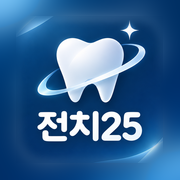
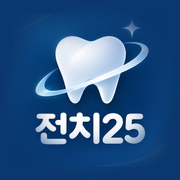
아이콘: 깔끔한 파란 배경 위에 줄여 얹어 이·글자가 잘리지 않게
- 받은 "전치25" 그림을 그 테두리와 같은 파란 원형 그라데이션 배경 위에 가장자리를 부드럽게 해 얹음(안쪽 네모 테두리가 비치지 않게)
- 안드로이드가 동그랗게 깎아도 이와 "전치25" 글자가 다 들어오게 (일반 84%, 안드로이드 둥근 아이콘 70%)
- 설치된 폰이 새로 받도록 ?v=3, 파일 크기도 줄임

Claude-Session: https://claude.ai/code/session_01JPaUmkgUKPJEQKHtWSj7xf

Changed region(s): [[0.1944, 0.6111, 1.0, 1.0], [0.0, 0.0, 0.8333, 0.5833], [0.4444, 0.4722, 0.5, 0.5556]]

diff --git a/index.html b/index.html
@@ -6,13 +6,13 @@
 <meta name="theme-color" content="#1d5d8a">
 <title>전치25</title>
 <link rel="manifest" href="/manifest.webmanifest">
-<link rel="apple-touch-icon" href="/icon-180.png?v=2">
+<link rel="apple-touch-icon" href="/icon-180.png?v=3">
 <meta name="apple-mobile-web-app-capable" content="yes">
 <meta name="mobile-web-app-capable" content="yes">
 <meta name="apple-mobile-web-app-title" content="전치25">
 <meta name="application-name" content="전치25">
 <meta name="apple-mobile-web-app-status-bar-style" content="default">
-<link rel="icon" type="image/png" href="/favicon-64.png?v=2">
+<link rel="icon" type="image/png" href="/favicon-64.png?v=3">
 <link rel="preconnect" href="https://fonts.googleapis.com">
 <link rel="preconnect" href="https://fonts.gstatic.com" crossorigin>
 <link rel="stylesheet" href="https://fonts.googleapis.com/css2?family=IBM+Plex+Sans+KR:wght@400;500;700&family=IBM+Plex+Mono:wght@500;600&display=swap">

diff --git a/CLAUDE.md b/CLAUDE.md
@@ -57,7 +57,7 @@
 - 명단에서 빠진 학생의 출결은 `attendance` 표에 남지만(다시 들어오면 쓴다) `_state`의 `att`에는 싣지 않는다.
 - 탭 순서: 탭을 0.5초 길게 누르면(그동안 `.pressing` 밑줄이 차오름) 집고(`.dragging`: 떠올라 그림자, 나머지는 흐림, transform으로 손가락을 따라옴), 다른 탭(원래 자리, `offsetLeft`라 `.tabs`가 `position:relative`) 위로 끌면 그 자리를 차지하며 비켜나는 탭은 FLIP으로 미끄러지고, 줄 가장자리 40px 안이면 저절로 스크롤한다. 놓으면 0.15초 내려앉은 뒤(`settling`) 역할마다 이 폰에만 기억한다(`localStorage` `jabong-taborder`, `tabsOf`가 `baseTabs`에 적용, 기억에 없는 새 탭은 맨 뒤). 맨 앞 탭이 처음 여는 탭이다. 그 전에 움직이면 보통 누름·스크롤이고, 집은 동안은 `touchmove`를 막아 탭 줄이 스크롤되지 않게 한다. 끌기를 끝낸 손을 뗄 때 오는 누름은 `tabDragEnd`로 막는다(새로 누르기 시작하면 풀린다). 움직임 줄이기 설정이면 애니메이션 없이 바로 바뀐다. 움직임·떼기는 창 전체(window)에서 받는다.
 - 학생 "내 번호"는 `localStorage`(`jabong-myno`)에만 둔다. 서버에 저장하지 않는다(번호만 고르면 누구나 되는 것과 같은 수준).
-- 홈 화면 앱: `public/manifest.webmanifest`와 아이콘(`public/icon-*.png`, 파비콘 `favicon-64.png`). 앱 이름은 "전치25"(manifest `name`·`short_name`, `<title>`, `.brand`, 아이폰 `apple-mobile-web-app-title`). 아이콘은 사용자가 준 "전치25" 그림을 파란 사각형 안쪽으로 잘라, 같은 그림을 흐리게 깐 배경 위에 줄여 얹은 PNG다(안드로이드가 동그랗게 깎아도 이·글자가 잘리지 않게: 일반 80%, maskable 66%). 아이콘을 바꾸면 manifest·index.html의 `?v=` 숫자를 올린다(설치된 폰이 새로 받게). 서비스 워커는 두지 않는다(캐시 때문에 새 버전이 늦게 보이는 일을 피하려고).
+- 홈 화면 앱: `public/manifest.webmanifest`와 아이콘(`public/icon-*.png`, 파비콘 `favicon-64.png`). 앱 이름은 "전치25"(manifest `name`·`short_name`, `<title>`, `.brand`, 아이폰 `apple-mobile-web-app-title`). 아이콘은 사용자가 준 "전치25" 그림을 파란 사각형 안쪽으로 잘라, 그림 테두리와 같은 파란 원형 그라데이션 배경 위에 가장자리를 부드럽게 해 줄여 얹은 PNG다(안드로이드가 동그랗게 깎아도 이·글자가 잘리지 않게: 일반 84%, maskable 70%). 아이콘을 바꾸면 manifest·index.html의 `?v=` 숫자를 올린다(설치된 폰이 새로 받게). 서비스 워커는 두지 않는다(캐시 때문에 새 버전이 늦게 보이는 일을 피하려고).
 - 한글 입력: 입력칸을 통째로 다시 그리면 조합이 깨진다. 입력 중 갱신이 필요하면 `data-live`(추천·칩 영역만 갱신)나 `data-region`(특정 영역만 갱신)을 쓰고, `data-rerender`는 날짜·숫자·체크박스처럼 한글이 없는 칸에만 쓴다.
 - Supabase는 앱에서 온 요청의 `where` 없는 `delete`/`update`를 거절한다(pg_safeupdate). 로컬 Postgres에서는 통과하니, 전체를 지울 때도 `where true`를 붙인다. `test/schema.test.js`가 검사한다.
 - 백업: `_dump()`가 비밀번호·로그인·사진을 뺀 전체 데이터를 JSON으로 만든다. `backup_dump()`는 로그인 없이 누구나 부를 수 있다(학급이 이름 공개를 괜찮다고 정했다). jabong-backup 저장소의 GitHub Actions가 매일 이것을 받아 암호화 없이 올린다. `restore_backup`은 부총대만 되고, 되살리기 직전에 화면이 현재 상태 파일을 먼저 받게 한다. `src/backupcrypt.js`는 예전에 암호를 걸어 받은 파일을 열 때만 쓴다.
